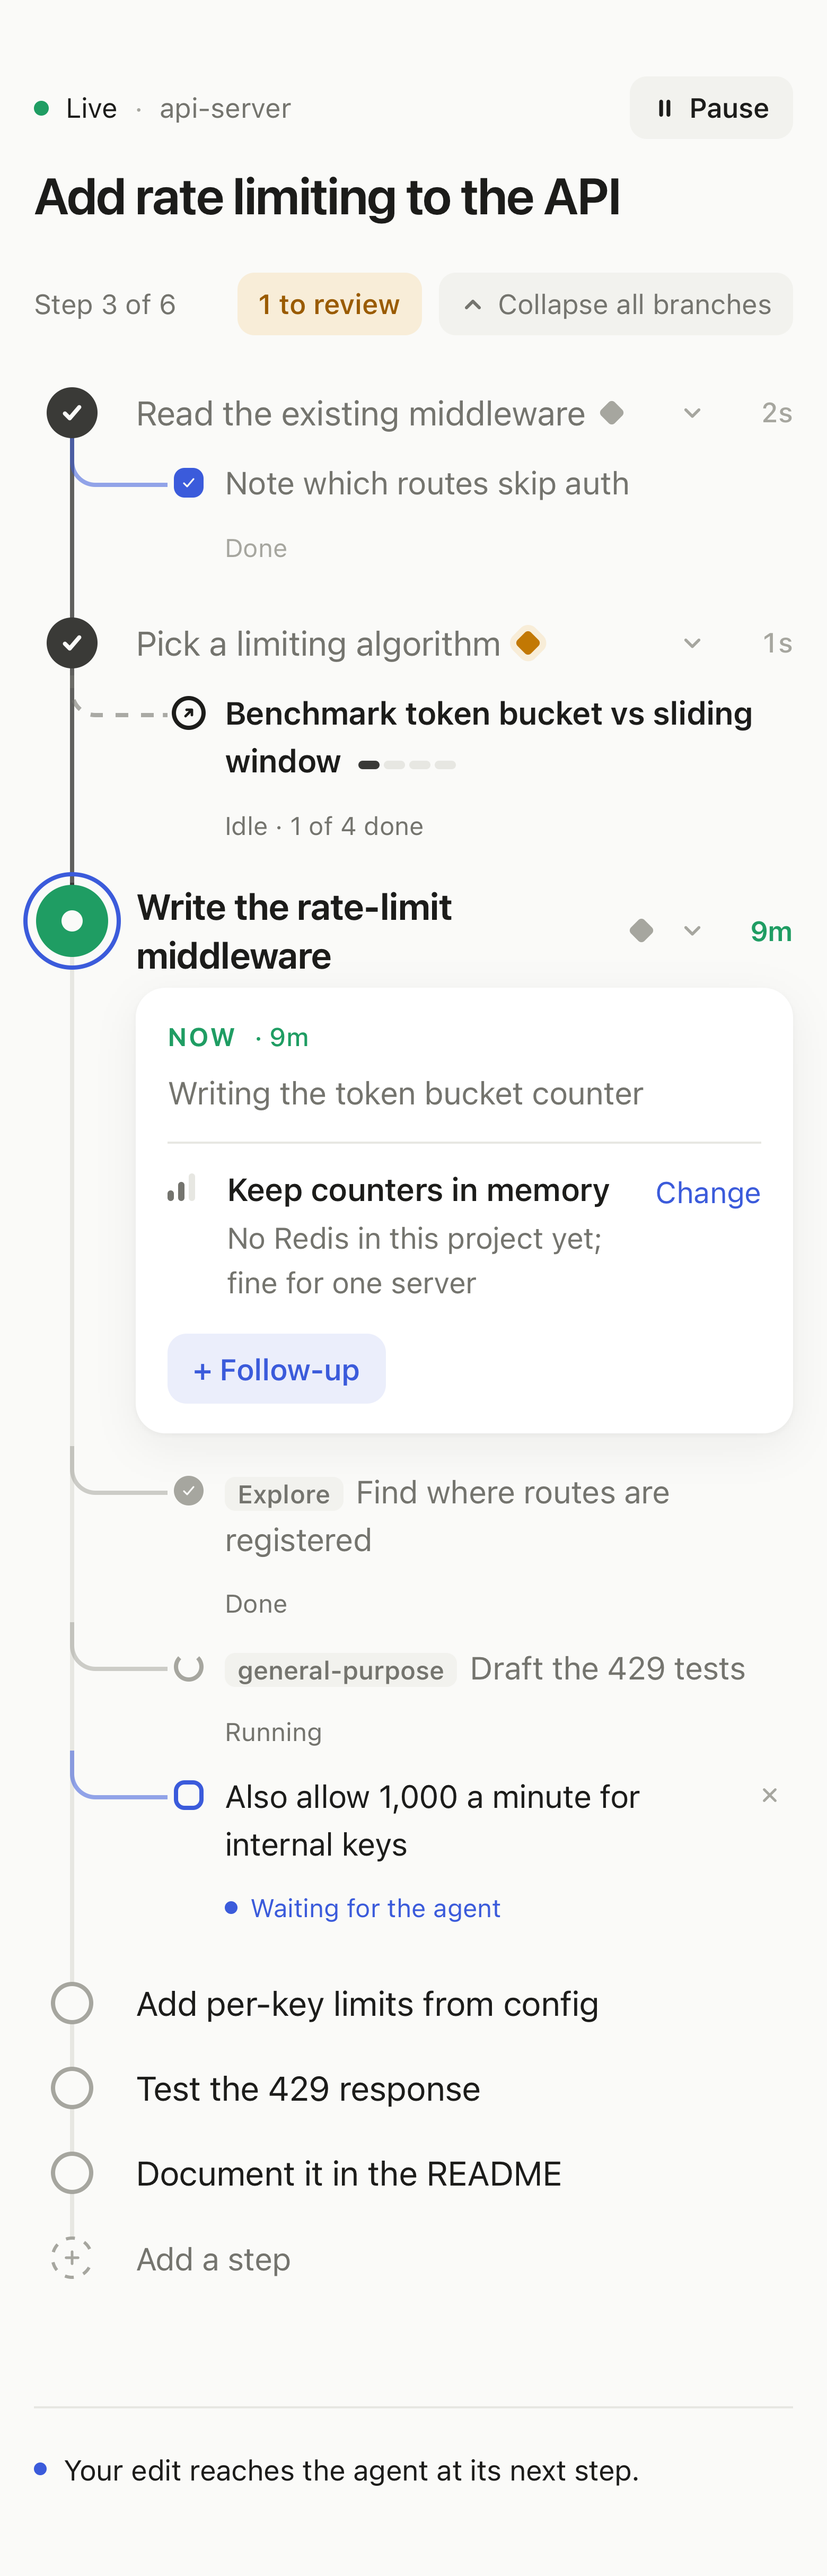
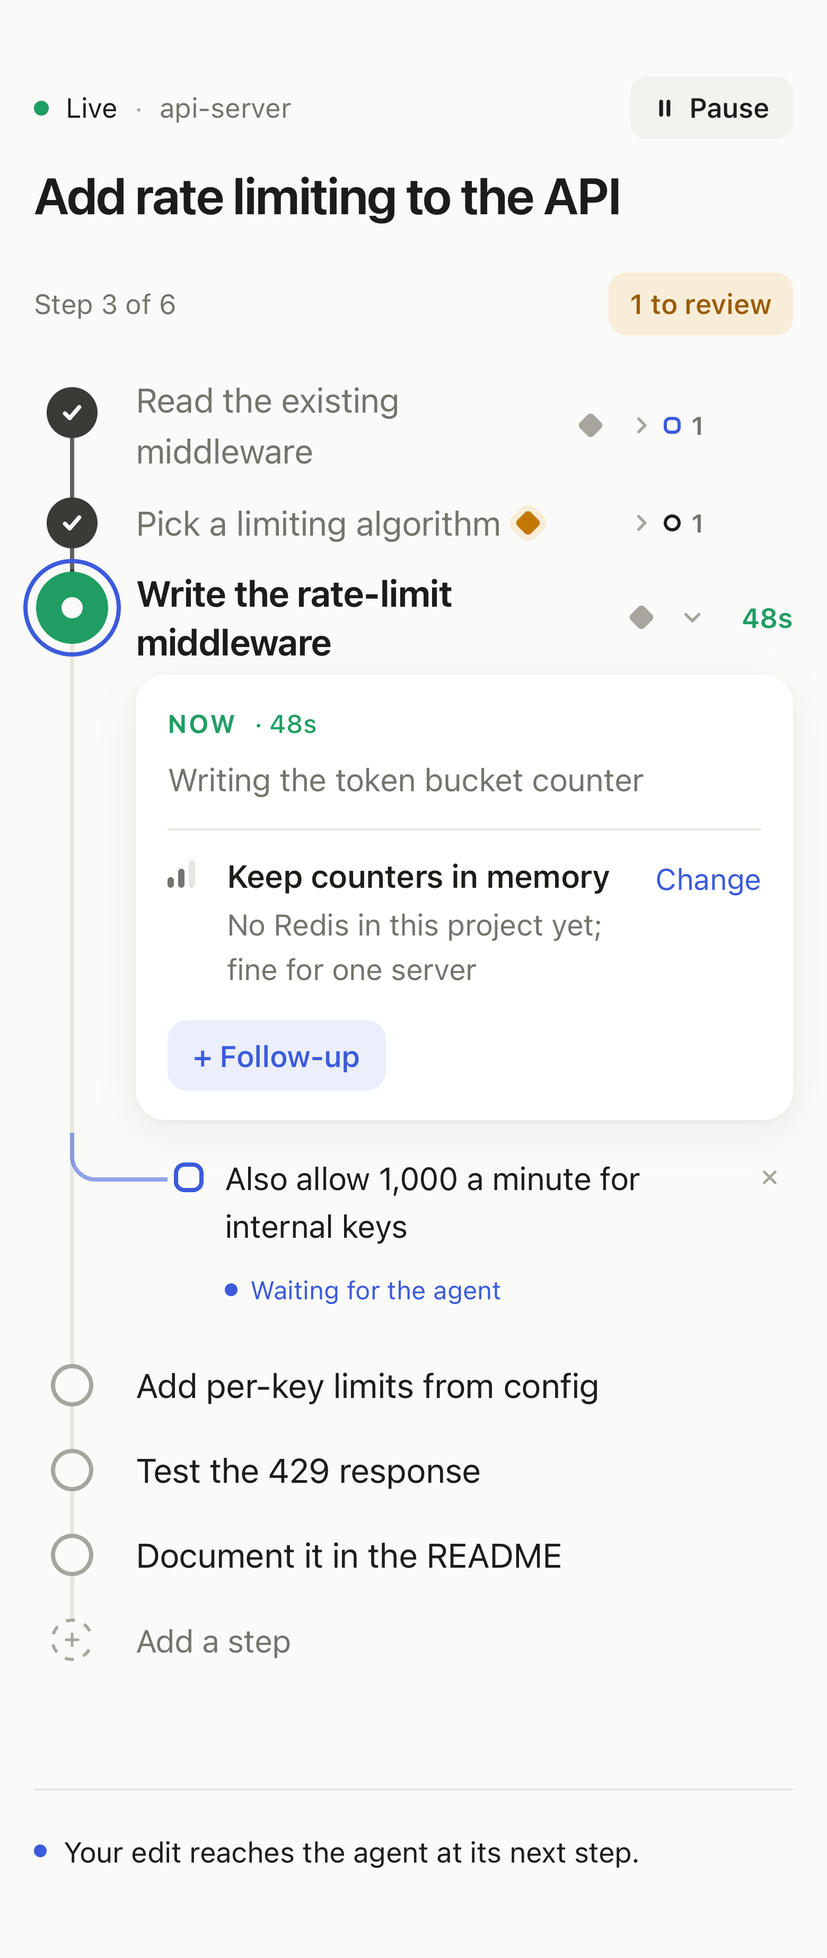
Trim the map: drop helper rows, fold finished branches
Subagent rows came and went in seconds and couldn't be steered, so the
page no longer tracks them (three hooks and the server code go too;
subagents are still kept off the page and stopped by Pause). Branches
fold into a count badge unless a follow-up there is in progress. The
collapse-all button and finished-step timers are gone.

diff --git a/src/page.html b/src/page.html
@@ -173,14 +173,13 @@ textarea { resize: none; min-height: 72px; line-height: 1.45; display: block; }
 .primary:disabled { opacity: .35; cursor: default; }
 .hint { font-size: 12.5px; color: var(--faint); margin-right: auto; }
 
-/* branches: your follow-ups, the agent's helpers, linked sessions */
+/* branches: your follow-ups and linked sessions */
 .brt { display: inline-flex; align-items: center; gap: 5px; height: 26px; padding: 0 8px 0 6px; border-radius: 7px; color: var(--faint); }
 .brt:hover { background: var(--chip); color: var(--muted); }
 .brt svg { width: 11px; height: 11px; transition: transform .15s; }
 .brt[aria-expanded="true"] svg { transform: rotate(90deg); }
 .brt .shapes { display: inline-flex; gap: 3px; align-items: center; }
 .brt .shapes i { width: 8px; height: 8px; border: 1.5px solid var(--accent); border-radius: 3px; }
-.brt .shapes i.h { border-color: var(--faint); border-radius: 50%; }
 .brt .shapes i.s { border-color: var(--text); border-radius: 50%; }
 .brt .shapes i.w { background: var(--accent); animation: breathe 1.4s ease-in-out infinite; }
 .brt .n { font-size: 12px; font-weight: 600; color: var(--muted); }
@@ -200,13 +199,6 @@ textarea { resize: none; min-height: 72px; line-height: 1.45; display: block; }
 .fu .x:hover { color: var(--text); background: var(--hover); }
 .fu .x svg { width: 12px; height: 12px; }
 .fu input.edit { padding: 5px 10px; font-size: 15px; }
-.br.helper::before { border-color: var(--faint); }
-.br.helper .fu-node { border-radius: 50%; border-color: var(--faint); }
-.br.helper.running .fu-node { border-top-color: transparent; animation: spin .9s linear infinite; }
-.br.helper.done .fu-node { background: var(--faint); color: var(--bg); }
-.br.helper .fu-text { color: var(--muted); }
-.br.helper .fu-state { color: var(--muted); }
-.htype { font-size: 12px; color: var(--muted); background: var(--chip); border-radius: 5px; padding: 1px 6px; margin-right: 6px; font-weight: 550; }
 .br.session { cursor: pointer; }
 .br.session::before { border-color: var(--muted); border-left-style: dashed; border-bottom-style: dashed; opacity: .6; }
 .br.session .fu-node { border-radius: 50%; border-color: var(--text); color: var(--text); width: 16px; height: 16px; margin-left: -1px; }
@@ -279,7 +271,7 @@ footer svg { width: 14px; height: 14px; }
   let connected = false;
   // UI state that must survive live updates. `open` is the step whose card is open ('auto' follows the current step).
   const freshUi = () => ({ open: 'auto', editingStep: null, adding: false, dragging: false, overrideOpen: null, overrideDraft: '',
-    fuAdding: null, collapsed: new Set(), showAllDone: false, openTask: null });
+    fuAdding: null, branchOpen: new Map(), showAllDone: false, openTask: null });
   let ui = freshUi();
 
   const app = document.getElementById('app');
@@ -456,11 +448,12 @@ footer svg { width: 14px; height: 14px; }
       current, upcoming, done, working, anchor,
       decisions: by(all, d => at(root(d).stepId)),
       followups: by(state.followups || [], f => at(f.stepId)),
-      helpers: by(state.helpers || [], x => at(x.stepId)),
       children: by(state.children || [], x => at(x.stepId)),
     };
   }
-  const branchCount = (m, id) => (m.followups.get(id) || []).length + (m.helpers.get(id) || []).length + (m.children.get(id) || []).length;
+  const branchCount = (m, id) => (m.followups.get(id) || []).length + (m.children.get(id) || []).length;
+  // Branches stay folded unless a follow-up there is still in progress, or the user opened them.
+  const branchesOpen = (m, id) => ui.branchOpen.has(id) ? ui.branchOpen.get(id) : (m.followups.get(id) || []).some(f => f.state !== 'done');
   const unresolved = all => all.filter(d => d.confidence === 'low' && !d.override && !all.some(r => r.supersedes === d.id));
 
   function tools() {
@@ -474,17 +467,13 @@ footer svg { width: 14px; height: 14px; }
     else if (total) summary = `All ${plural(total, 'step')} done`;
     else summary = state.status === 'working' ? 'Working' : '';
     const review = unresolved(state.decisions || []);
-    const withBr = [...m.done.map(d => d.id), ...(state.next || []).map(n => n.id)].filter(id => branchCount(m, id));
-    const allFolded = withBr.length && withBr.every(id => ui.collapsed.has(id));
     return h('div', { class: 'vtools' },
       h('span', { class: 'summary' }, summary),
       review.length ? h('button', { class: 'pillbtn review', onclick: () => {
         const r = review[0];
         const step = [...m.decisions.entries()].find(([, list]) => list.includes(r));
         if (step) { ui.open = step[0]; ui.showAllDone = true; paint(); app.querySelector('.vrow.open')?.scrollIntoView({ block: 'center', behavior: 'smooth' }); }
-      } }, `${review.length} to review`) : null,
-      withBr.length ? h('button', { class: 'pillbtn', onclick: () => { ui.collapsed = allFolded ? new Set() : new Set(withBr); paint(); } },
-        allFolded ? ICON.down() : ICON.up(), allFolded ? 'Expand all branches' : 'Collapse all branches') : null);
+      } }, `${review.length} to review`) : null);
   }
 
   // ----- the map -----
@@ -511,13 +500,12 @@ footer svg { width: 14px; height: 14px; }
     const open = openId === step.id;
     const decs = m.decisions.get(step.id) || [];
     const n = branchCount(m, step.id);
-    const folded = ui.collapsed.has(step.id) && ui.fuAdding !== step.id;
+    const folded = !branchesOpen(m, step.id) && ui.fuAdding !== step.id;
     const toggleOpen = () => { ui.open = open ? null : step.id; paint(); };
     const live = kind === 'now' && state.status === 'working' && connected;
     const editing = ui.editingStep === step.id;
     let time = h('span', { class: 'vtime' });
     if (kind === 'now' && state.stepStartedAt) time = h('span', { class: 'vtime since' + (state.pause ? ' held' : ''), 'data-at': state.stepStartedAt }, since(state.stepStartedAt));
-    if (kind === 'done' && step.took != null) time = h('span', { class: 'vtime dim' }, dur(step.took));
     const li = h('li', { class: `vrow ${kind}${open ? ' open' : ''}${kind === 'next' ? ' step' : ''}`, 'data-id': step.id },
       h('button', { class: `vdot ${kind}${live ? ' live' : ''}${step.edited ? ' edited' : ''}`, 'aria-expanded': String(open), 'aria-label': `${kind === 'done' ? 'Done' : kind === 'now' ? 'Now' : 'Next'}: ${step.text}`, onclick: toggleOpen },
         kind === 'done' ? ICON.boldCheck() : null),
@@ -537,12 +525,12 @@ footer svg { width: 14px; height: 14px; }
   }
 
   function branchToggle(id, m, folded) {
-    const fus = m.followups.get(id) || [], hs = m.helpers.get(id) || [], cs = m.children.get(id) || [];
-    const n = fus.length + hs.length + cs.length;
+    const fus = m.followups.get(id) || [], cs = m.children.get(id) || [];
+    const n = fus.length + cs.length;
     return h('button', { class: 'brt', 'aria-expanded': String(!folded), title: `${folded ? 'Show' : 'Hide'} ${plural(n, 'branch')}`.replace('branchs', 'branches'),
-      onclick: e => { e.stopPropagation(); folded ? ui.collapsed.delete(id) : ui.collapsed.add(id); paint(); } },
+      onclick: e => { e.stopPropagation(); ui.branchOpen.set(id, folded); paint(); } },
       ICON.chevron(),
-      h('span', { class: 'shapes' }, hs.map(() => h('i', { class: 'h' })), cs.map(() => h('i', { class: 's' })), fus.map(f => h('i', { class: f.state === 'waiting' ? 'w' : '' }))),
+      h('span', { class: 'shapes' }, cs.map(() => h('i', { class: 's' })), fus.map(f => h('i', { class: f.state === 'waiting' ? 'w' : '' }))),
       h('span', { class: 'n' }, String(n)));
   }
 
@@ -560,7 +548,7 @@ footer svg { width: 14px; height: 14px; }
       activity && h('p', { class: 'activity' }, activity),
       decs.length ? decisionList(decs) : null,
       step.id === '_now' ? null : h('div', { class: 'actions' },
-        h('button', { class: 'btn fu-btn', onclick: () => { ui.fuAdding = step.id; ui.collapsed.delete(step.id); paint(); app.querySelector('.fu input')?.focus(); } }, '+ Follow-up'),
+        h('button', { class: 'btn fu-btn', onclick: () => { ui.fuAdding = step.id; ui.branchOpen.set(step.id, true); paint(); app.querySelector('.fu input')?.focus(); } }, '+ Follow-up'),
         kind === 'next' && [
           h('button', { class: 'btn', onclick: () => startEdit(step) }, 'Rename'),
           h('button', { class: 'btn', disabled: idx <= 0, onclick: () => move(step.id, -1) }, 'Move up'),
@@ -572,12 +560,8 @@ footer svg { width: 14px; height: 14px; }
   // ----- branches -----
   const FU_STATE = { waiting: 'Waiting for the agent', received: 'Agent has it', done: 'Done' };
   function branches(step, kind, m) {
-    const hs = m.helpers.get(step.id) || [], cs = m.children.get(step.id) || [], fus = m.followups.get(step.id) || [];
+    const cs = m.children.get(step.id) || [], fus = m.followups.get(step.id) || [];
     return h('ul', { class: 'fus' },
-      hs.map(x => h('li', { class: `fu br helper ${x.state}` },
-        h('span', { class: 'fu-node' }, x.state === 'done' ? ICON.check() : null),
-        h('span', { class: 'fu-text' }, h('span', { class: 'htype' }, x.type), x.text || 'Helper'),
-        h('span', { class: 'fu-state' }, x.state === 'done' ? 'Done' : 'Running'))),
       cs.map(c => {
         const label = c.status === 'starting' ? 'Starting…' : c.status === 'ended' ? `Ended · ${c.done} of ${c.total} done`
           : c.status === 'working' ? (c.total ? `Step ${Math.min(c.done + 1, c.total)} of ${c.total}` : 'Working') : c.total && c.done >= c.total ? `Done · ${c.total} of ${c.total}` : (c.total ? `Idle · ${c.done} of ${c.total} done` : 'Idle');

diff --git a/src/server.js b/src/server.js
@@ -53,7 +53,7 @@ function blank(id) {
     now: { text: '', at: 0 },
     decisions: [],
     next: [], agentNext: [], done: [],
-    followups: [], helpers: [], children: [], hostId: '', parent: null, stepStartedAt: 0,
+    followups: [], children: [], hostId: '', parent: null, stepStartedAt: 0,
     pending: { plan: null, overrides: [], followups: [] },
     edits: { state: 'none', at: 0 },
     shared: false,
@@ -73,7 +73,8 @@ function get(id) {
 // Sessions saved by older versions lack the newer fields.
 function migrate(s) {
   s.done = s.done || []; s.earlier = s.earlier || [];
-  s.followups = s.followups || []; s.helpers = s.helpers || []; s.children = s.children || [];
+  s.followups = s.followups || []; s.children = s.children || [];
+  delete s.helpers; // subagents are no longer shown
   s.pending = s.pending || { plan: null, overrides: [] };
   s.pending.followups = s.pending.followups || [];
   for (const d of s.done) if (!d.id) d.id = newId('n');
@@ -251,7 +252,6 @@ function archiveTask(s) {
   });
   if (s.earlier.length > 20) s.earlier.length = 20;
   s.done = []; s.next = []; s.agentNext = []; s.decisions = []; s.followups = [];
-  s.helpers = s.helpers.filter(h => h.state === 'running');
   s.now = { text: '', at: 0 };
   s.edits = { state: 'none', at: Date.now() };
 }
@@ -291,23 +291,6 @@ function agentFollowupDone(s, id) {
   f.state = 'done'; f.doneAt = Date.now();
   s.pending.followups = s.pending.followups.filter(x => x !== f.id);
   changed(s, { touch: true });
-}
-// Helpers are the main agent's subagents. The Agent tool call names them; SubagentStart/Stop give their id and end.
-function hookHelper(s, b) {
-  const type = short(b.type, 40) || 'agent';
-  if (b.action === 'start') {
-    s.helpers.push({ id: newId('h'), toolUseId: String(b.toolUseId || ''), agentId: '', type, text: short(b.text, 120), state: 'running', stepId: currentStepId(s), at: Date.now() });
-  } else if (b.action === 'bind') {
-    if (s.helpers.some(h => h.agentId === b.agentId)) return;
-    const h = [...s.helpers].reverse().find(x => !x.agentId && x.state === 'running' && (x.type === type || type === 'agent'));
-    if (h) h.agentId = String(b.agentId);
-    else s.helpers.push({ id: newId('h'), toolUseId: '', agentId: String(b.agentId), type, text: '', state: 'running', stepId: currentStepId(s), at: Date.now() });
-  } else if (b.action === 'stop') {
-    const h = s.helpers.find(x => x.agentId === b.agentId) || s.helpers.find(x => b.toolUseId && x.toolUseId === b.toolUseId);
-    if (h) { h.state = 'done'; h.doneAt = Date.now(); }
-  }
-  if (s.helpers.length > 40) s.helpers = s.helpers.slice(-40);
-  changed(s);
 }
 // The parent started a side session (desktop) or launched claude from its shell (seen by the child).
 function linkChild(parent, link) {
@@ -409,7 +392,6 @@ setInterval(() => {
     try { process.kill(s.pid, 0); } catch (e) {
       if (e.code === 'ESRCH') {
         s.status = 'ended';
-        for (const h of s.helpers) if (h.state === 'running') h.state = 'done';
         s.pause = null; s.resume = false; gate(s);
         releaseWaiter(s.id); changed(s);
       }
@@ -515,9 +497,6 @@ const server = http.createServer(async (req, res) => {
         changed(s);
         return send(res, 200, { ok: true });
       }
-      case '/api/hook/helper':
-        hookHelper(s, body);
-        return send(res, 200, { ok: true });
       case '/api/hook/started-session': {
         for (const hostId of (Array.isArray(body.hostIds) ? body.hostIds : []).map(String)) {
           linkChild(s, { hostId });

diff --git a/src/hook.js b/src/hook.js
@@ -82,18 +82,6 @@ async function main() {
       if (message) print({ hookSpecificOutput: { hookEventName: 'PostToolUse', additionalContext: message } });
       return;
     }
-    case 'helper': { // the main agent is starting a subagent
-      if (input.agent_id) return;
-      const t = input.tool_input || {};
-      await request('POST', '/api/hook/helper', { session, action: 'start', toolUseId: input.tool_use_id, type: t.subagent_type || 'general-purpose', text: t.description || '' }, 1500);
-      return;
-    }
-    case 'substart':
-      await request('POST', '/api/hook/helper', { session, action: 'bind', agentId: input.agent_id, type: input.agent_type }, 1500);
-      return;
-    case 'substop':
-      await request('POST', '/api/hook/helper', { session, action: 'stop', agentId: input.agent_id }, 1500);
-      return;
     case 'prompt': {
       await request('POST', '/api/hook/activity', { session, status: 'working' }, 800).catch(() => {});
       const message = await take(session, { prompt: true }); // typing here also lifts a pause

diff --git a/README.md b/README.md
@@ -21,8 +21,8 @@ Give Claude any multi-step task. It shares a link to the page in its first updat
 
 - **The map:** every step on one line, with what's done, what's running now, and what's next. Tap a step to open it: what it's doing and the decisions made there. Unsure decisions are marked *review*; click **Change** to say what to do instead.
 - **Next up:** rename, reorder (drag or Move up/down), remove, or add steps.
-- **Follow-ups:** add one to any step, even a finished one, and it branches off the map as a blue square: waiting, then *agent has it*, then done.
-- **Helpers and side sessions:** subagents show as gray branches on the step that started them. Side sessions the agent starts show as linked branches with their own progress; click one to open its page.
+- **Follow-ups:** add one to any step, even a finished one, and it branches off the map as a blue square: waiting, then *agent has it*, then done. Branches fold into a small badge once they're done; click it to open them.
+- **Side sessions:** sessions the agent starts show as linked branches with their own progress. Click one to open its page.
 - **Pause and Resume:** Pause stops the agent at its next step (whatever it is running finishes first). While it's paused, your edits wait. Resume wakes it where it left off, edits included. Typing to Claude also resumes it.
 - **Earlier:** finished tasks from the same session, folded away.
 
@@ -30,7 +30,7 @@ Your edits reach the agent between its steps. In an open session, they wake it u
 
 ## How it works
 
-A plugin with three parts: an MCP server with a few small tools the agent uses to update the page, hooks that hand your edits to the agent between steps (and notice its subagents and side sessions), and a tiny local server that streams the page live. No dependencies, no accounts, no network calls.
+A plugin with three parts: an MCP server with a few small tools the agent uses to update the page, hooks that hand your edits to the agent between steps (and notice the side sessions it starts), and a tiny local server that streams the page live. No dependencies, no accounts, no network calls.
 
 ## Privacy
 

diff --git a/skills/keep-status/SKILL.md b/skills/keep-status/SKILL.md
@@ -29,6 +29,6 @@ Their edits reach you between steps as a message starting "Update from the user,
 - An **overridden decision** means do it their way. Undo or adjust work that depended on the old choice, record the new choice with `record_decision` and `supersedes` set to the old id, then call `update_plan`.
 - Say briefly in your next message to the user what you changed because of their edit.
 
-Subagents can't use these tools; keep the page current yourself. The page shows your subagents and any side sessions you start on its own.
+Subagents can't use these tools; keep the page current yourself. The page shows any side sessions you start on its own.
 
 If an `update_plan` call is refused because the user edited first, re-plan from their version and call it again.
